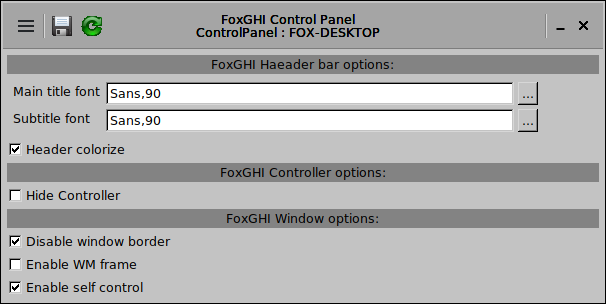
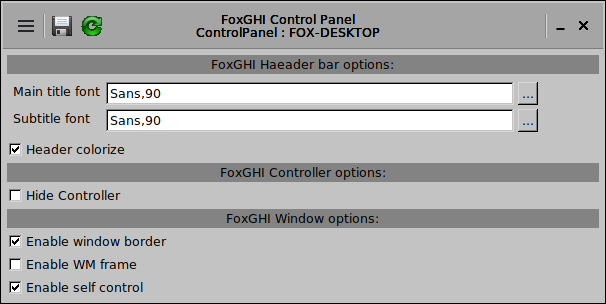
Fix bad label in widget

Changed region(s): [[0.0297, 0.7697, 0.297, 0.8289]]

diff --git a/tests/FoxGHICP/cp.cpp b/tests/FoxGHICP/cp.cpp
@@ -47,7 +47,7 @@ GHI_ControlPanel::GHI_ControlPanel( FXComposite *p, FXuint opts )
 
    FXLabel *lw = new FXLabel( this, "FoxGHI Window options:", NULL, LABEL_NORMAL | LAYOUT_FILL );
    lw->setBackColor( getApp( )->getShadowColor( ) );
-   wcb_border      = new FXCheckButton( this, "Disable window border", NULL, 0 );
+   wcb_border      = new FXCheckButton( this, "Enable window border", NULL, 0 );
    wcb_wmcontrol   = new FXCheckButton( this, "Enable WM frame", NULL, 0 );
    wcb_selfcontrol = new FXCheckButton( this, "Enable self control", NULL, 0 );
 }
